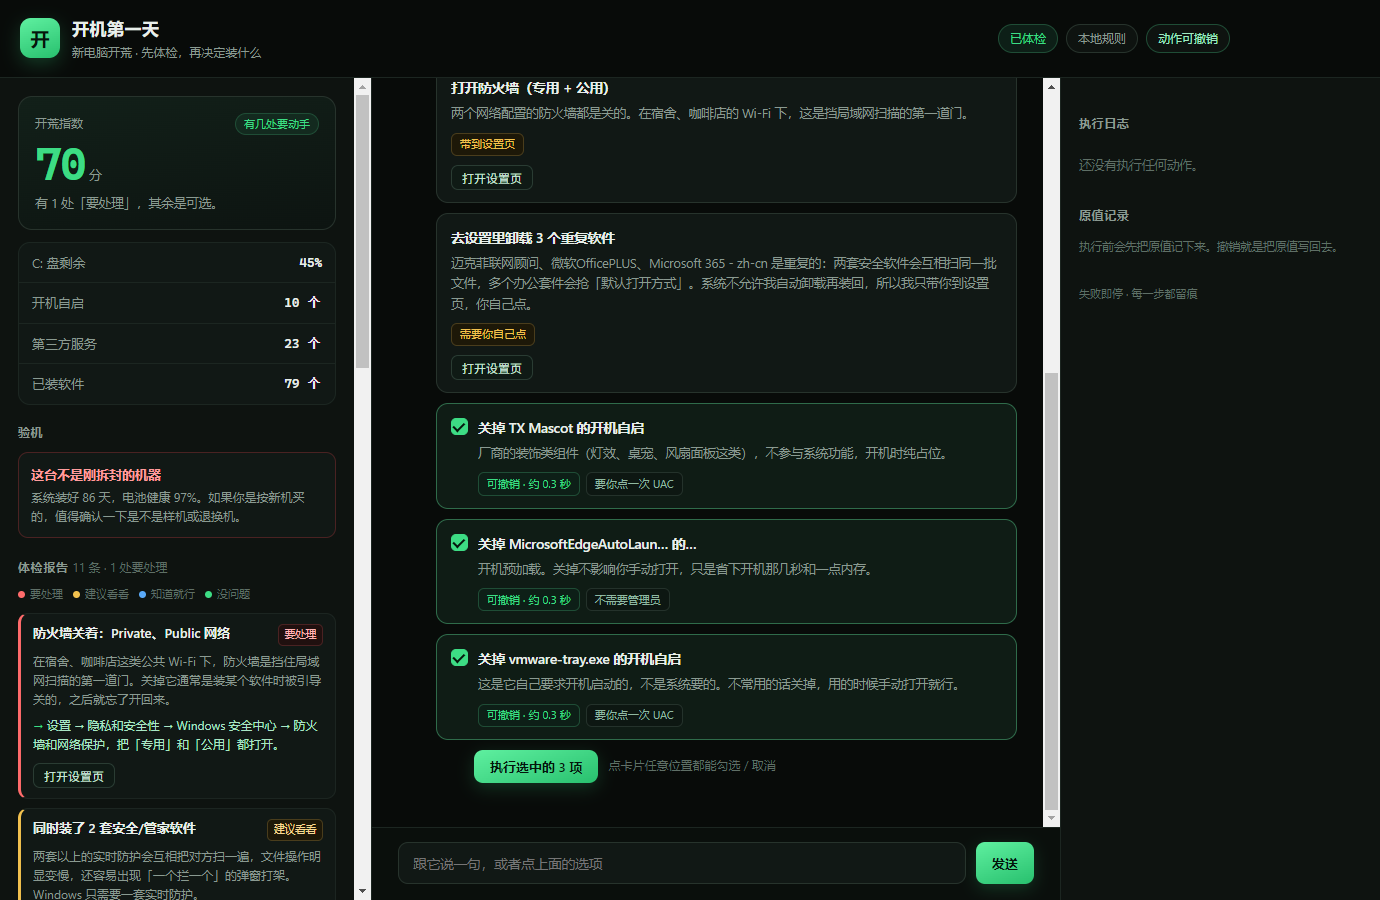
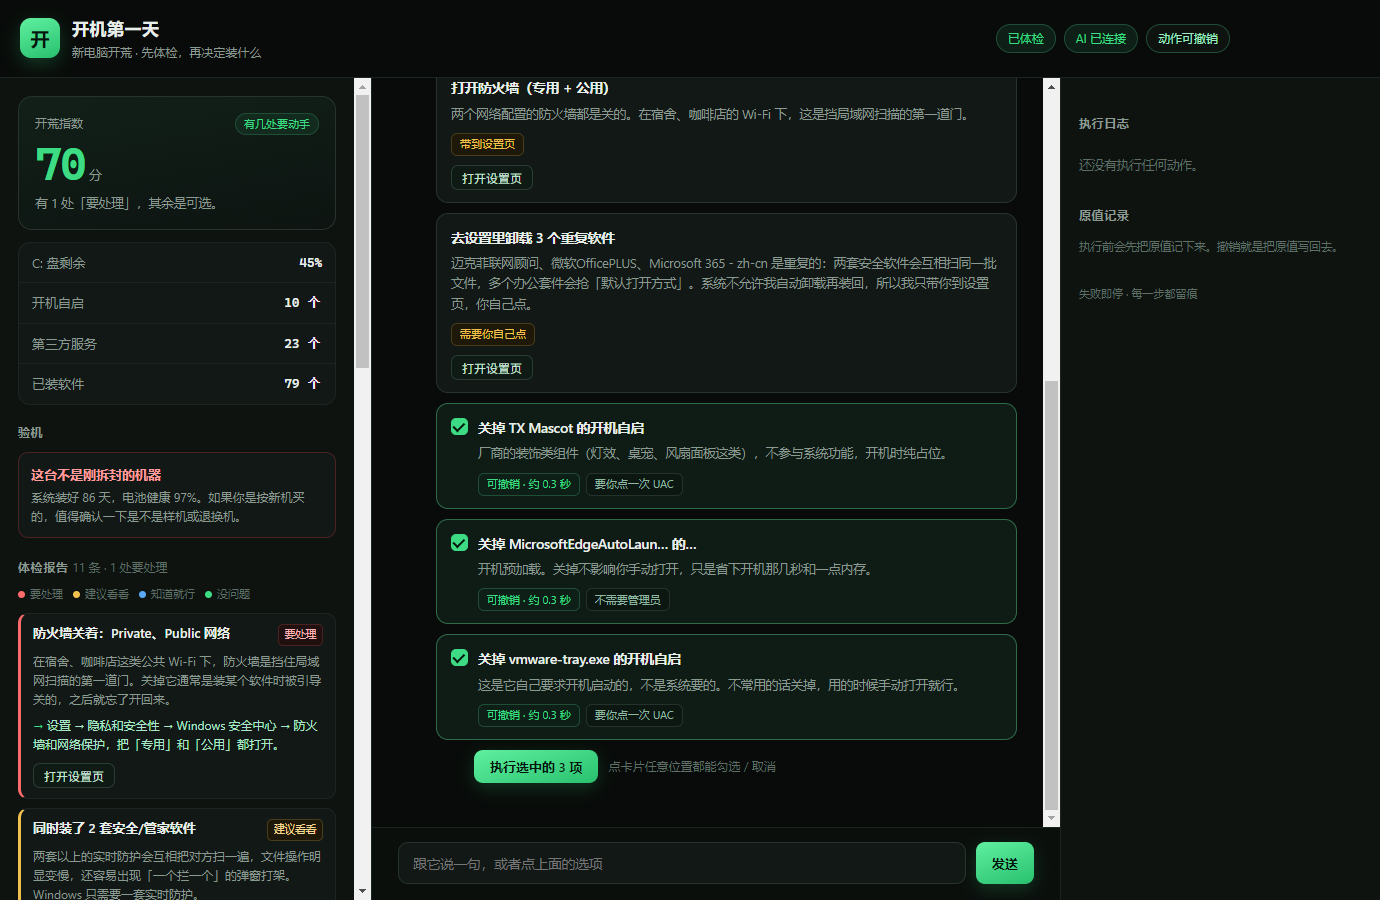
v0.2.5: AI explains and answers follow-ups; rule engine still picks actions

diff --git a/README.md b/README.md
@@ -20,31 +20,30 @@
 
 ## v0.2 桌面版怎么跑
 
-1. 从 [Releases](https://github.com/NI-haoyang/kaiguang/releases) 下载 `kaiguang-v0.2.4-win64.zip`（约 113 MB，含 Electron 运行时，不用装 Node、不用联网）。
+1. 从 [Releases](https://github.com/NI-haoyang/kaiguang/releases) 下载 `kaiguang-v0.2.5-win64.zip`（约 113 MB，含 Electron 运行时，不用装 Node、不用联网）。
 2. **把整个 zip 解压到一个空文件夹**，再双击文件夹里的 `开机第一天.exe`。
    - 不要只把 exe 复制出来，也不要在压缩软件里直接双击 exe —— Windows 只会把 exe 单独解到临时目录，DLL 和 resources 没跟过来，就会报「找不到 ffmpeg.dll」。
    - 不确定的话，先双击同目录的 `启动前检查.bat`，它会告诉你缺了什么。
 3. 等 20 秒，窗口里自动出体检报告；在中间对话框点一个选项（或直接打字），动作卡片就出来了。之后还能接着打字追问，卡片会跟着换。
 4. 勾选要做的，点「执行选中的 N 项」；想反悔，点左下角「全部撤销」。
 
-没有 API key 也能完整跑：不填 key 时用本地规则引擎出方案，体检、执行、撤销一个不少。点右上角「本地规则」可以填 DeepSeek key，让 AI 按你的用途挑动作（key 只存在本机 `%LOCALAPPDATA%\Kaiguang\settings.json`）。
+没有 API key 也能完整跑：不填 key 时用本地规则引擎出方案，体检、执行、撤销一个不少。点右上角「本地规则 / AI 已连接」，可以填自己的 DeepSeek key，让 AI 解释每一项、回答「TX Mascot 是干什么的 / 能不能删 / 怎么退」这类追问（key 只存在本机 `%LOCALAPPDATA%\Kaiguang\settings.json`，不上传）。
 
-### 演示版的内置体验 key
+### AI 是可选增强，不是运行前提
 
-比赛演示用的那个 zip 里内置了一个**限额的** DeepSeek key，评委不用自己申请就能看到 AI 追问。代价说在前面：
+- **不填 key**：规则引擎照常出方案，体检、执行、撤销一个不少；追问由本地知识库回答。
+- **填了 key**：追问交给 DeepSeek，能结合这台机器的真实数据和内置知识库解释「这是什么、关掉会怎样、能不能退」。
+- **模型不碰执行**：动作清单由规则引擎挑，模型只输出纯文本解释；断网、key 失效、额度用完都会静默回落到本地规则。
 
-- key 会出现在下载的 exe 里，技术上一定能被扒出来 → 所以它只放比赛用的那点额度，被刷完最多损失这些额度；
-- 程序每天有调用上限（`KG_DAILY_CAP`，默认 400 次），超过就自动切回本地规则，不会一次把额度跑光；
-- 断网、key 失效、额度用完都会静默回落到本地规则，体检 / 执行 / 撤销不受影响；
-- 演示结束轮换 key，下一版重新构建。
+公开仓库与 Release 里**不含任何 key**。如果评委机不方便自己填，可以在本地用 `tools/build-private.ps1 -Key <key>` 生成一个内置限额 key 的演示包（`app/lib/builtin-key.mjs` 已 gitignore），只发给现场，不公开上传。
 
-公开仓库里没有这个 key：构建脚本 `tools/build-private.ps1 -Key <key>` 只在本地把它写进 `app/lib/builtin-key.mjs`（已 gitignore），再同步到打包目录、压成 zip。
+![AI 追问：TX Mascot 是干什么的](docs/img/agent-ai.png)
 
 **它是怎么做到「敢按下去」的**
 
 | 层 | 做法 | 效果 |
 |---|---|---|
-| AI 只挑动作，不写命令 | 动作库写死（关自启 / 卸软件 / 带你到设置页），AI 只能输出 `{"action":"disable_startup","target":"TX Mascot","reason":"..."}`，参数还要过实体校验 | 判断失误最多「选错动作」，永远不会「命令注入」 |
+| AI 只解释，不碰执行 | 动作清单由规则引擎按体检结果挑；模型只读摘要、输出纯文本，不产出命令也不产出动作 | 模型说错最多是解释不准，不会误操作 |
 | 执行前先留退路 | 改之前把原值写进 journal（注册表二进制、软件包 ID、服务启动类型） | 撤销 = 把原值写回去，不需要重装 |
 | 失败即停 + 全程留痕 | 任何一步失败，后面不再执行；日志逐条可导出 | 评委可以查它做了什么、为什么、怎么退 |
 

diff --git a/docs/报名提交.md b/docs/报名提交.md
@@ -8,7 +8,7 @@
 
 **在线 Demo（只读版）**：https://ni-haoyang.github.io/kaiguang/
 
-**桌面版（能真的动手，能真的撤销）**：[Releases v0.2.4](https://github.com/NI-haoyang/kaiguang/releases) 下载 zip（约 113 MB，含运行时，不用装 Node、不用联网），解压后双击 `开机第一天.exe`。
+**桌面版（能真的动手，能真的撤销）**：[Releases v0.2.5](https://github.com/NI-haoyang/kaiguang/releases) 下载 zip（约 113 MB，含运行时，不用装 Node、不用联网），解压后双击 `开机第一天.exe`。
 
 **代码仓库**：https://github.com/NI-haoyang/kaiguang
 
@@ -18,11 +18,11 @@
 一句话总结：**同类工具只给清单，我们负责执行，并且保证能退。**
 
 **AI 用在哪（以及为什么不是「套壳」）**：
-- AI 负责三件事：**问清意图**（这台拿来干嘛、三个办公套件留哪个）、**从动作目录里挑动作**、**回答「这个能不能删 / 删了会怎样 / 怎么退」这类追问**。它读的是这台机器的真实数据（79 个软件、10 个自启、23 个服务）。
-- 演示版内置了一个**限额**的体验 key，评委不用自己申请；每天有调用上限，断网或额度用完会自动回落到本地规则——体检、执行、撤销照常，所以现场不怕没网。
-- AI **不写命令**。它只能从写死的动作目录里挑（关自启 / 带你去设置页），参数必须原样来自体检数据，执行前还要过实体校验——所以它不会「幻觉出一条 rm -rf」。卸载不在目录里：OEM 软件卸了装不回，我们不做。
-- 判断失误最多是**选错动作**，永远不会是**命令注入**。这是我们在答辩里要讲的核心设计：我们假设 AI 会犯错，而不是假设它不会。
-- 没有 key 也能完整跑：结论退回本地规则引擎，体检、执行、撤销一个不少。
+- AI 负责两件事：**解释每一张动作卡**（这是什么、关掉会怎样、能不能退），以及**回答追问**（「TX Mascot 是干什么的」「迈克菲能删吗」）。它读的是这台机器的真实数据（79 个软件、10 个自启、23 个服务），再叠加一份 20 多条的内置知识库。
+- **动作清单由规则引擎挑，模型不参与执行**。命中体检规则才出卡；模型只读摘要、只输出纯文本，既不写命令，也不产出动作。
+- 所以模型说错，最多是**解释不准**，不会误操作；真正动手的每一步都有原值记录和撤销。这是答辩要讲的核心：我们假设 AI 会犯错，所以不让它碰执行。
+- 没有 key 也能完整跑：常见组件由内置知识库回答，体检、执行、撤销一个不少；填了 key，才能解释清单外的软件。Release 里**不含任何 key**，现场演示机由我们自己配置。
+- 每天有调用上限（默认 400 次），断网 / key 失效 / 额度用完都会静默回落到本地规则，现场不怕没网。
 
 **作品边界（我们主动没做的）**：
 - 不卸驱动、不改 BIOS、不碰分区、不删系统组件。
